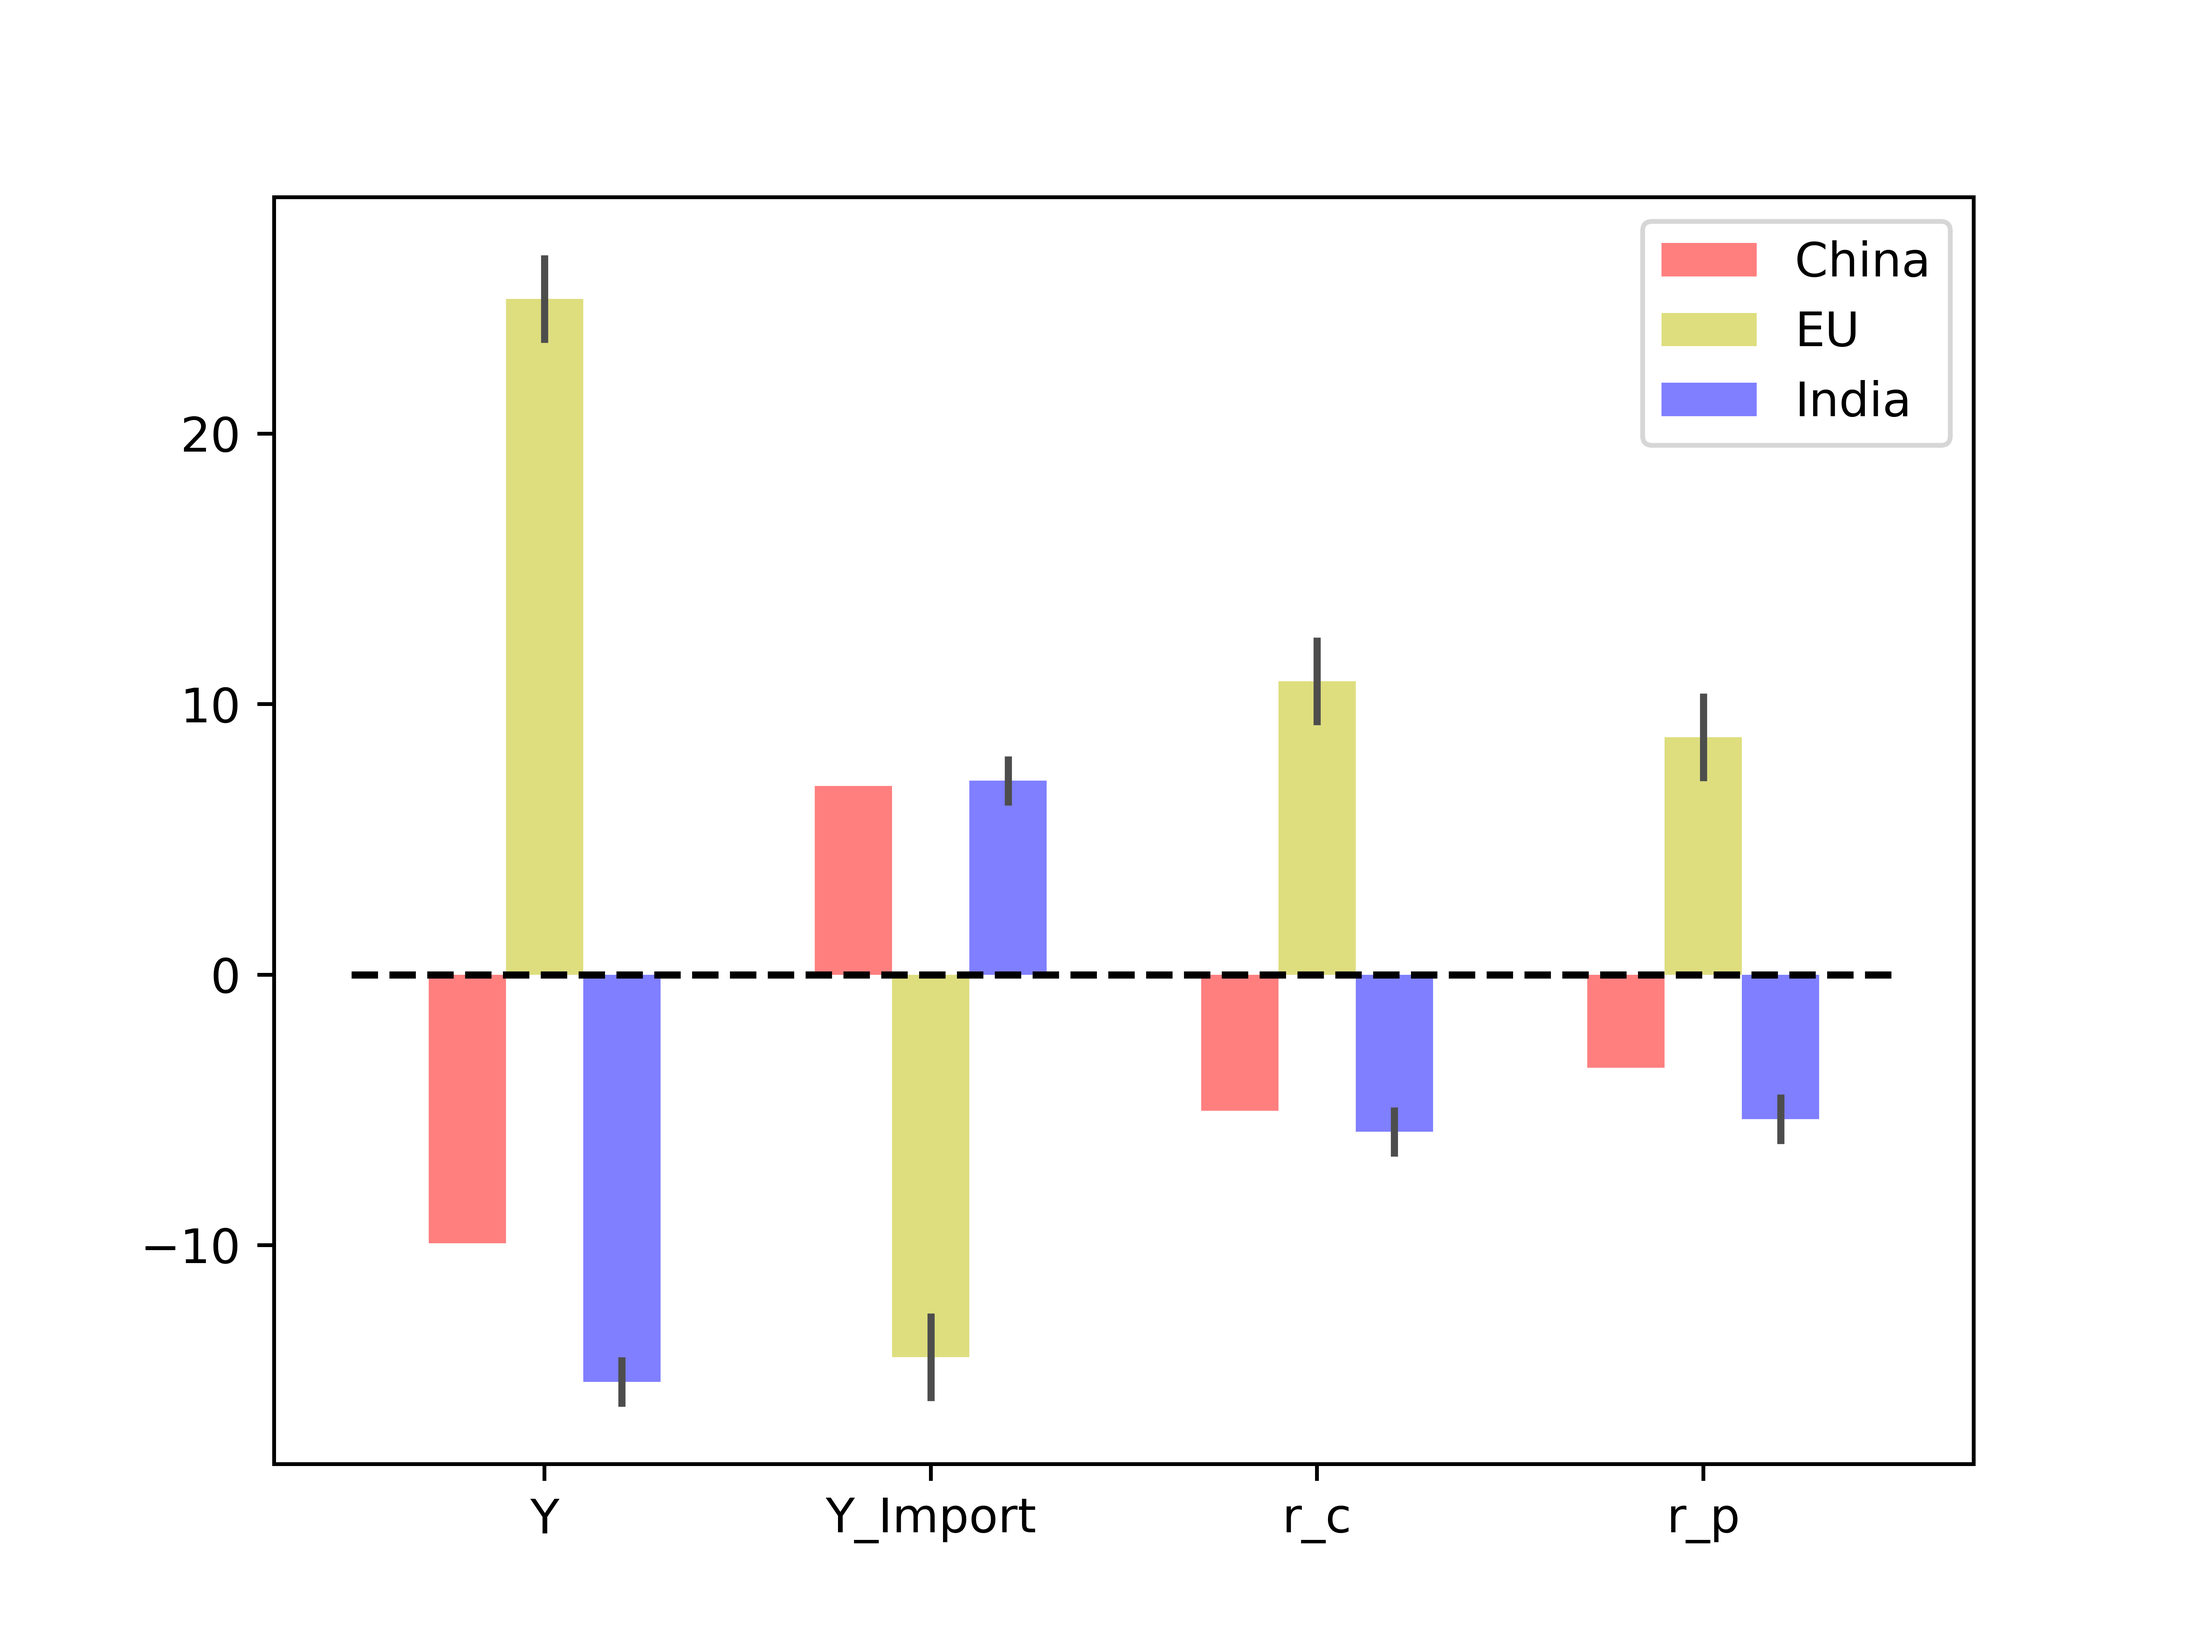
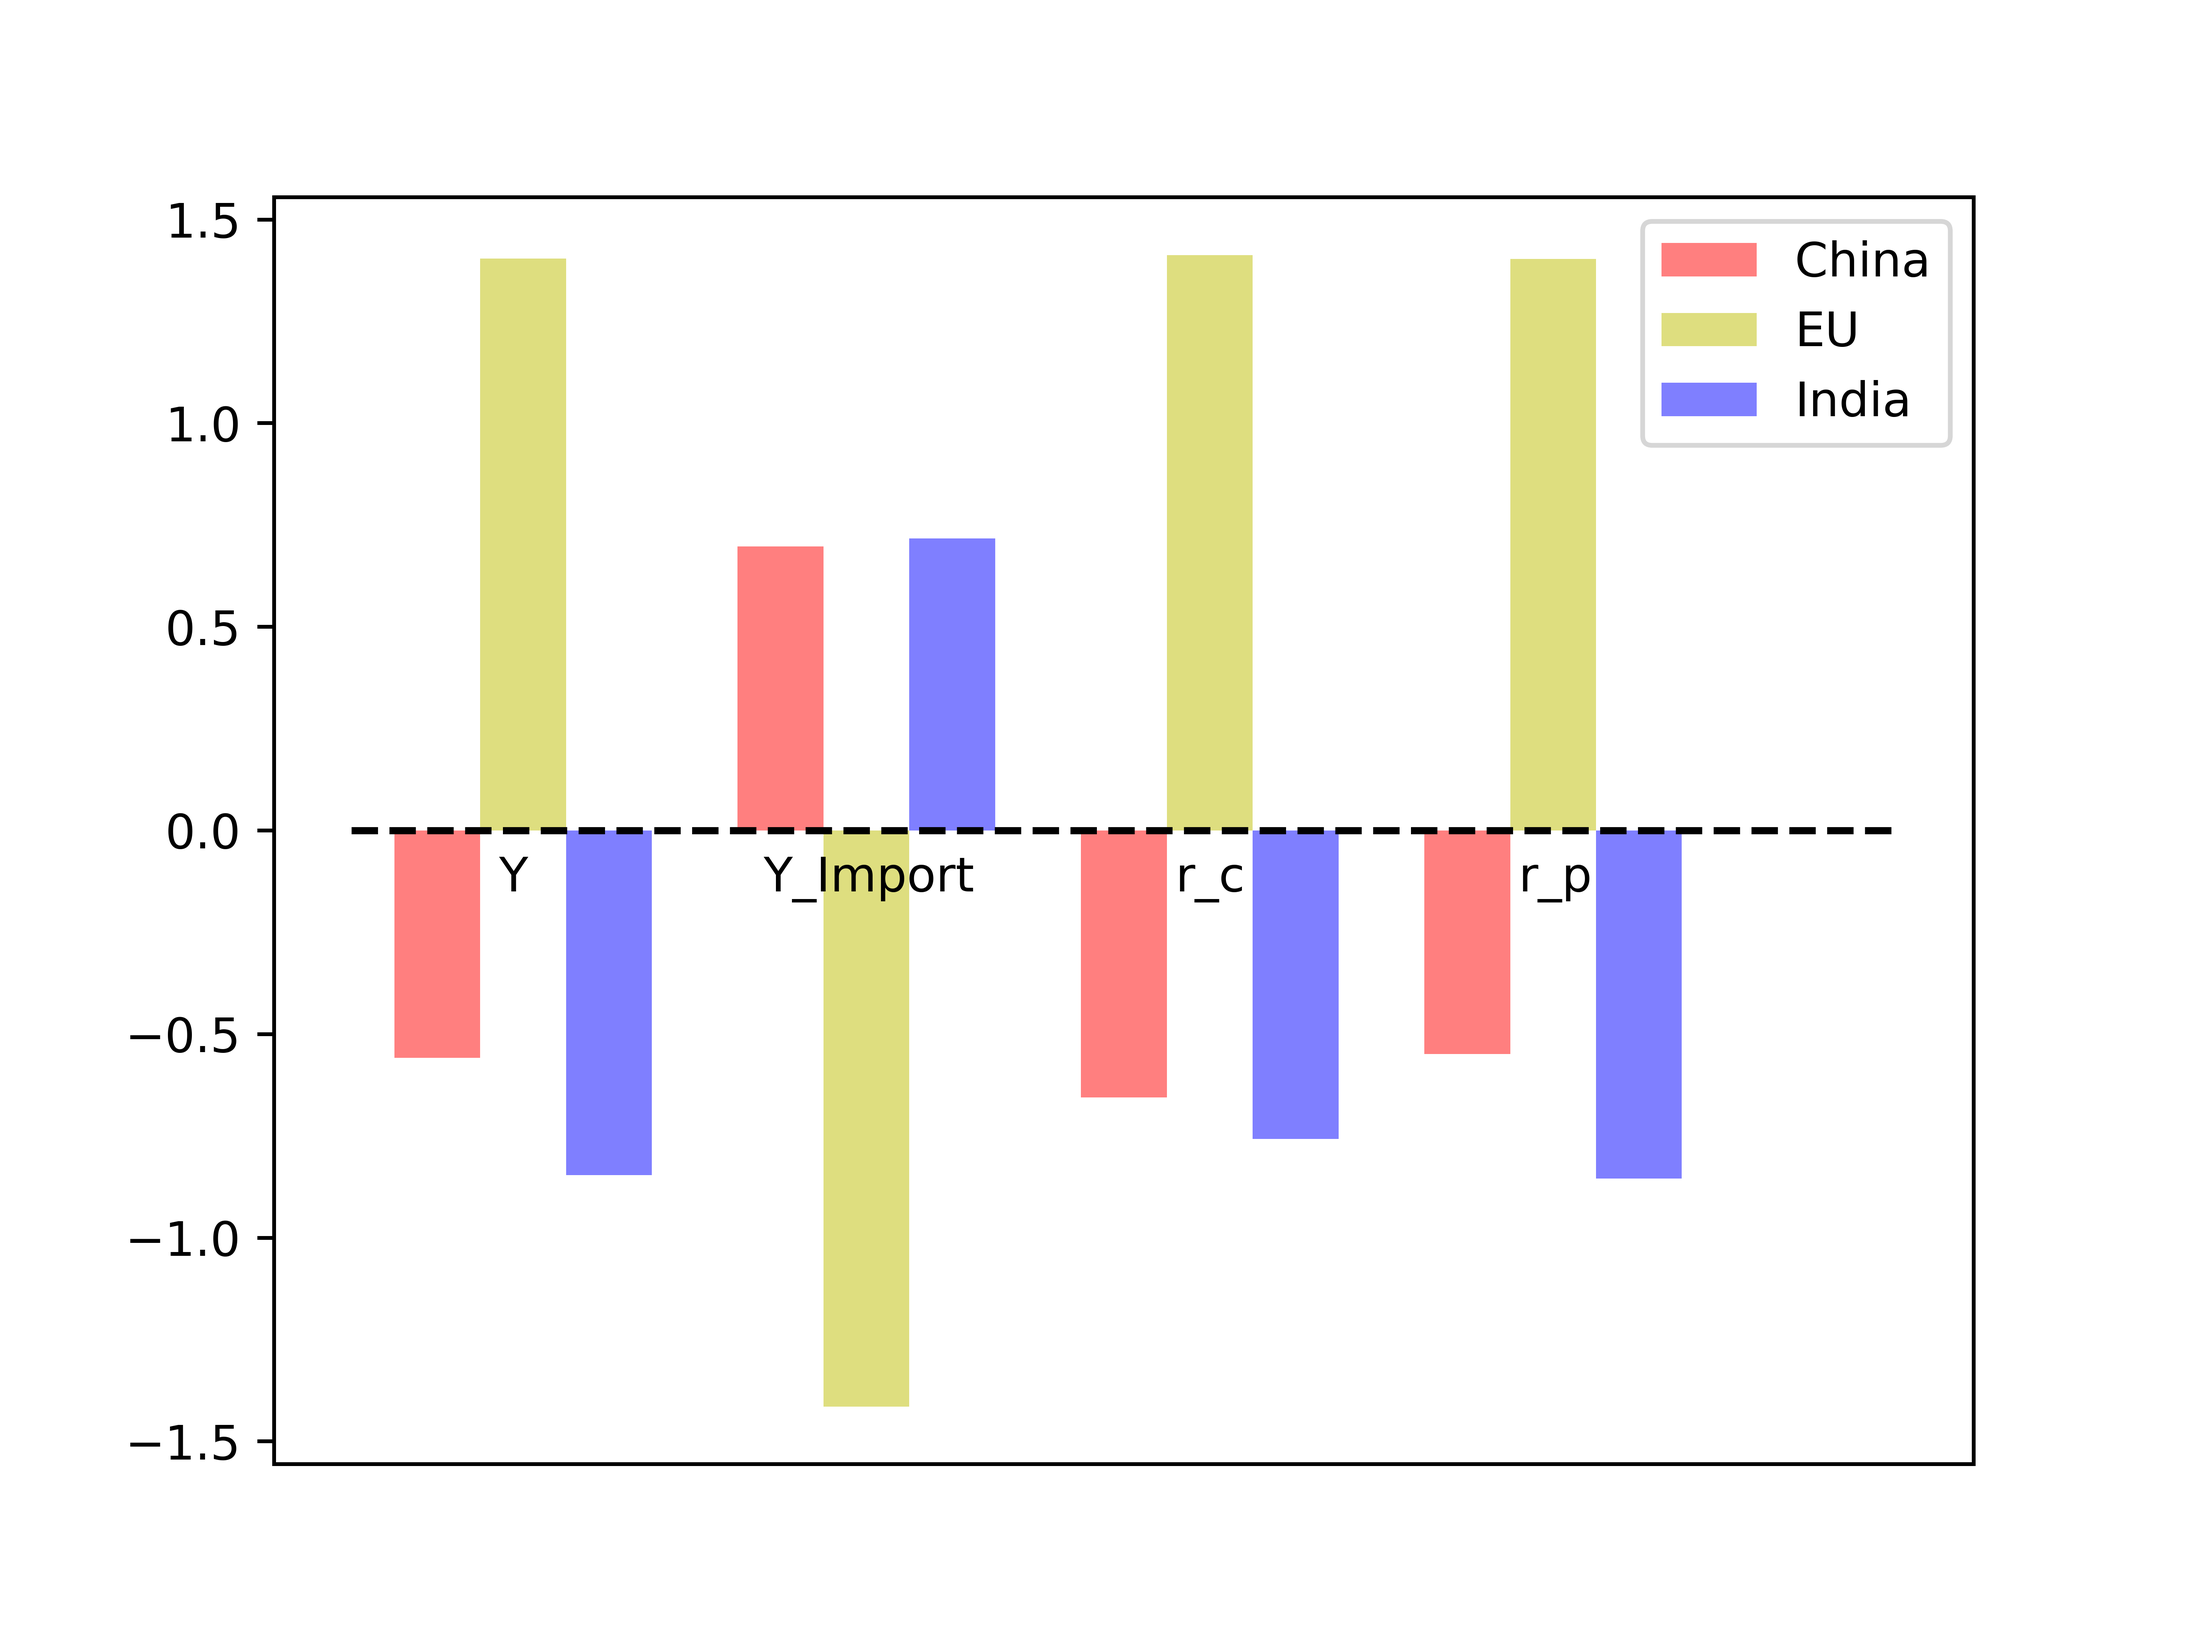
add data of AHP

diff --git a/code/Region_Estimation.py b/code/Region_Estimation.py
@@ -2,10 +2,10 @@ import numpy as np
 import pandas as pd
 import matplotlib.pyplot as plt
 W = np.array([
-    [10, 3, 2, 5,0, 0, 0],
-    [0, 0, 0, 0, 10,0, 0],
-    [5, -1, 0, 0, 0,3, 0],
-    [5, 0, 0, 0, 0,0, 3]
+    [10, 3, 2, 5, 0, 0, 0],
+    [0, 0, 0, 0, 10, 0, 0],
+    [5, -1, 0, 0, 0, 3, 0],
+    [5, 0, 0, 0, 0, 0, 3]
 ])  # 收入 人口 替代, P_Y,P_i,P_c,P_p
 
 
@@ -13,41 +13,50 @@ df = pd.read_excel("data/data for AHP.xlsx",
                    sheet_name="Input", index_col="Region")
 data = df.values
 
-result = pd.DataFrame((W @ data.T), index=["Y", "Y_Import", "r_c", "r_p"],
-                        columns=df.index)
-print(result)
+result = pd.DataFrame((W @ data.T).T, index=df.index,
+                      columns=["Y", "Y_Import", "r_c", "r_p"])
+
 
 nan_excel = pd.DataFrame()
 nan_excel.to_excel("result\Region_Estimaiton_Result.xlsx")
 writer = pd.ExcelWriter("result\Region_Estimaiton_Result.xlsx")
 result.to_excel(writer, sheet_name="pre")
-
-
-
-index = np.arange(4)
-error_config = {'ecolor': '0.3'}
-bar_width = 0.2
-fig, ax = plt.subplots()
-
-rect0 = ax.bar(index - bar_width, result["China"], bar_width, alpha=0.5,
-               color='r',  label="China")
-
-rect1 = ax.bar(index, result["EU"], bar_width, alpha=0.5,color='y',yerr=0.1 * result["EU"].std(), error_kw=error_config, label="EU")
-
-rect2 = ax.bar(index + bar_width, result["India"], bar_width, alpha=0.5, color='b',
-               yerr=0.1 * result["India"].std(), error_kw=error_config, label="India")
-
-#rect3 = ax.bar(index + bar_width, result["r_p"], bar_width, alpha=0.5, color='g',
-    #           yerr=0.1 * result["r_p"].std(), error_kw=error_config, label="r_p")
-
-ax.hlines(0, -0.5, 3.5, colors='k', linestyles="dashed")
-ax.set_xticks(index)
-ax.set_xticklabels(tuple(result.index))
-ax.legend(loc="best")
-plt.savefig("figure\Region_Estimation.png", dpi=900)
-plt.show()
-
 result = result.apply(lambda x: ((x-np.mean(x))/np.std(x)))
 # print(result)
 result.to_excel(writer, sheet_name="standard")
 writer.save()
+result = result.T
+print(result)
+
+
+index = np.arange(4)
+error_config = {'ecolor': '0.3'}
+bar_width = 0.25
+fig, ax = plt.subplots()
+
+rect0 = ax.bar(index - bar_width, result["China"], bar_width, alpha=0.5,
+               color='r', label="China")
+
+rect1 = ax.bar(index, result["EU"], bar_width,
+               alpha=0.5, color='y', label="EU")
+
+rect2 = ax.bar(index + bar_width, result["India"], bar_width, alpha=0.5, color='b',
+               label="India")
+
+# rect3 = ax.bar(index + bar_width, result["r_p"], bar_width, alpha=0.5, color='g',
+#           yerr=0.1 * result["r_p"].std(), error_kw=error_config, label="r_p")
+
+ax.hlines(0, -0.5, 4, colors='k', linestyles="dashed")
+
+for i in range(4):
+    if i>=2:
+        plt.text(i - 0.1, -0.15, result.index[i])
+    elif i==1:
+        plt.text(i - 0.3, -0.15, result.index[i])
+    else:
+        plt.text(i - 0.07, -0.15, result.index[i])
+
+ax.legend(loc="best")
+ax.set_xticks([])
+plt.savefig("figure\Region_Estimation.png", dpi=900)
+plt.show()
